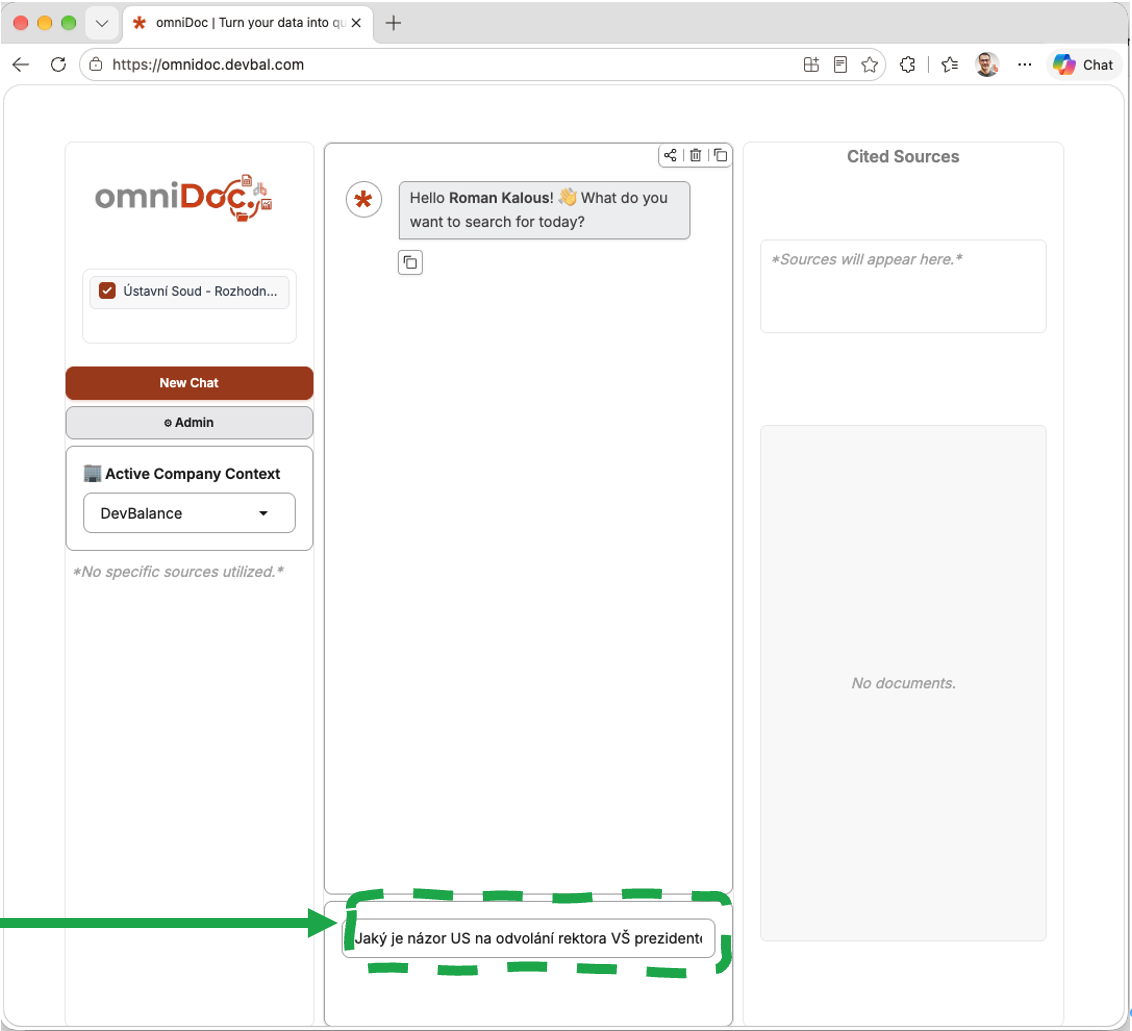
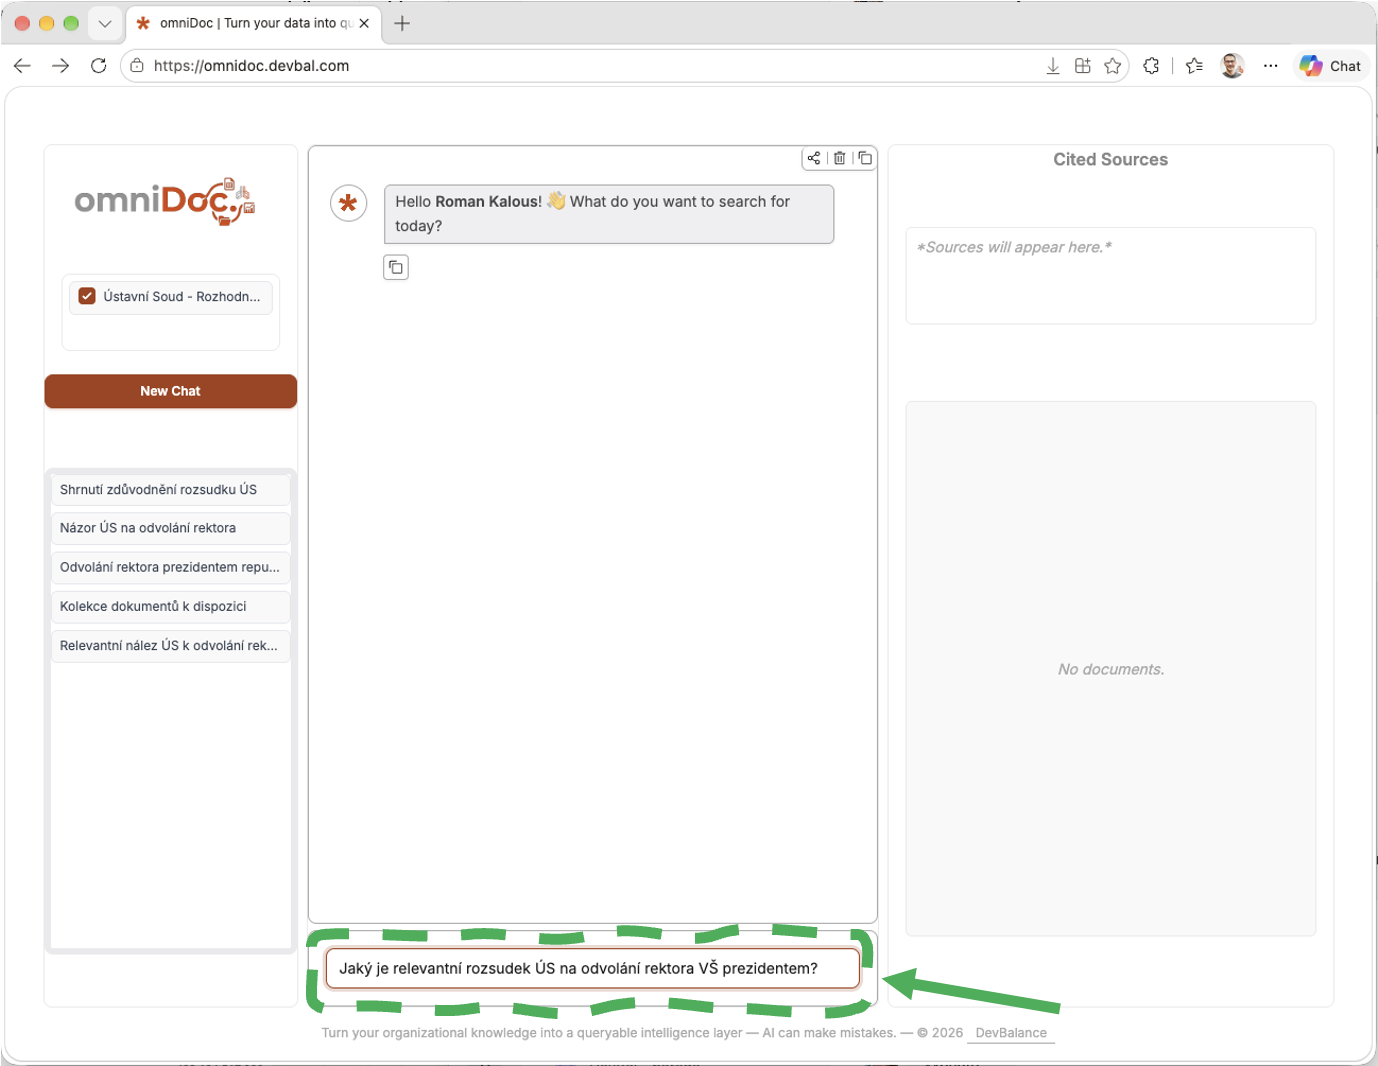
EN version of how-to + CZ update

diff --git a/omniDoc-how-to-FE-EN.html b/omniDoc-how-to-FE-EN.html
@@ -1,0 +1,273 @@
+<!DOCTYPE html>
+<html lang="en">
+
+<head>
+  <meta charset="utf-8">
+  <meta content="width=device-width, initial-scale=1.0" name="viewport">
+  <title>omniDoc. – DevBalance</title>
+  <meta name="description" content="omniDoc. – turn your documents into an intelligent query layer">
+  <meta name="keywords" content="omniDoc, documents, AI, search, semantic search, DevBalance">
+
+  <!-- Favicons -->
+  <link href="assets/img/devbal-favicon.png" rel="icon">
+  <link href="assets/img/apple-touch-icon.png" rel="apple-touch-icon">
+
+  <!-- Fonts -->
+  <link href="https://fonts.googleapis.com/css2?family=Jost:wght@400;500;600&display=swap" rel="stylesheet">
+
+  <!-- Vendor CSS Files -->
+  <link href="assets/vendor/bootstrap/css/bootstrap.min.css" rel="stylesheet">
+  <link href="assets/vendor/bootstrap-icons/bootstrap-icons.css" rel="stylesheet">
+  <link href="assets/vendor/aos/aos.css" rel="stylesheet">
+  <link href="assets/vendor/glightbox/css/glightbox.min.css" rel="stylesheet">
+  <link href="assets/vendor/swiper/swiper-bundle.min.css" rel="stylesheet">
+
+  <!-- Main CSS File -->
+  <link href="assets/css/main.css" rel="stylesheet">
+
+  <style>
+    .hero.hero-compact {
+      min-height: auto;
+      padding: 120px 0 24px 0;
+      align-items: flex-start;
+    }
+
+    @media (max-width: 768px) {
+      .hero.hero-compact {
+        padding: 104px 0 20px 0;
+      }
+    }
+  </style>
+</head>
+
+<body class="index-page">
+
+  <header id="header" class="header d-flex align-items-center fixed-top">
+    <div class="container-fluid container-xl position-relative d-flex align-items-center">
+
+      <a href="index.html" class="logo d-flex align-items-center me-auto">
+        <img src="assets/img/DB_logotyp_pozitiv_RGB.png" alt="">
+      </a>
+
+      <nav id="navmenu" class="navmenu">
+        <ul>
+          <li><a href="index.html">Home</a></li>
+          <li><a href="index.html#services">Services</a></li>
+          <li><a href="index.html#portfolio">Portfolio</a></li>
+          <li><a href="index.html#team">Team</a></li>
+        </ul>
+        <i class="mobile-nav-toggle d-xl-none bi bi-list"></i>
+      </nav>
+
+    </div>
+  </header>
+
+  <main class="main">
+
+    <!-- Page Hero Section -->
+    <section class="hero section hero-compact">
+      <div class="container">
+        <div class="row justify-content-center text-center">
+          <div class="col-lg-8" data-aos="fade-up">
+            <img src="assets/img/portfolio/devbal-omniDoc.-logo.png" class="img-fluid mb-3" alt="omniDoc. logo" style="max-height:80px">
+            <h1>What <em>omniDoc.</em> is (and is not), and how to use it in the basic environment</h1>
+          </div>
+        </div>
+      </div>
+    </section><!-- /Hero Section -->
+
+    <!-- omniDoc Content Section -->
+    <section class="services section pt-0">
+      <div class="container" data-aos="fade-up">
+
+        <div class="row gy-4 mb-5">
+          <div class="col-12">
+            <p><strong><em>omniDoc.</em></strong> is a tool for intelligently searching and interpreting content from a large number of different file types in your library, project folders, or SharePoint (PDFs, Word documents, scans, and emails).</p>
+
+            <p>I can upload confidential materials to the <strong><em>omniDoc.</em></strong> knowledge base – whether sensitive project data (for example, details of private transactions or information subject to confidentiality requirements) or personal data (for example, national identification numbers, dates of birth, or health information). Data is stored and processed on confidential servers.</p>
+
+            <br><br>
+            <h4>Example</h4>
+            <p><strong><em>omniDoc.</em></strong> may, for example, contain dozens of PDFs with materials for the construction and outfitting of a new hall – designs, visualizations, contracts, documentation, delivery deadlines, requirements, supplier materials, and more.</p>
+            
+            <p>With <strong><em>omniDoc.</em></strong>, I can ask <em>“What is the delivery date for the insulation?”</em> or <em>“List all the key dates in a table, including the expected invoice amounts for the corresponding periods (according to the quotations).”</em></p>
+          </div>
+        </div>
+
+        <div class="row gy-4 mb-5">
+          <div class="col-12">
+            <h4><em>omniDoc.</em> is not ChatGPT over the internet</h4>
+            <p><strong><em>omniDoc.</em></strong> does not generally search the web for answers. It primarily works with the documents in its sources, which are prepared by your team or company. Its purpose is not to generate general knowledge, but to help you navigate your own materials.</p>
+
+            <h4><em>omniDoc.</em> is not yet designed for long conversations</h4>
+            <p><strong><em>omniDoc.</em></strong> delivers its best results in the first response. Instead of developing lengthy discussions, it is better to ask a question, search, and use the result.</p>
+
+            <h4><em>omniDoc.</em> does not know everything</h4>
+            <p>A lawyer, designer, or tax adviser is still responsible for the professional conclusion. <strong><em>omniDoc.</em></strong> helps you quickly find relevant information, connections, and evidence in the sources, but it does not make decisions for you.</p>
+
+            <h4><em>omniDoc.</em> is not an image generator</h4>
+            <p><strong><em>omniDoc.</em></strong> understands images (it can “see” them in the sources), but it cannot generate images. Therefore, it cannot (yet) answer a request such as <em>“Draw a map of the supply chain based on the underlying contracts for situation XXX.”</em></p>
+          </div>
+        </div>
+
+        <div class="row gy-4 mb-5">
+          <div class="col-12">
+            <h2>How should I use <em>omniDoc.</em>?</h2>
+          </div>
+          <div class="col-lg-6" data-aos="fade-up" data-aos-delay="100">
+            <h4>Chat interface</h4>
+            <p><strong><em>omniDoc.</em></strong> has a simple chat interface – a basic input for a question or prompt and a response window.</p>
+          </div>
+          <div class="col-lg-6" data-aos="zoom-in" data-aos-delay="150">
+            <img src="./assets/img/portfolio/devbal-omniDoc.-how-to-1-prompt.png" class="img-fluid rounded shadow" alt="omniDoc. question input interface">
+          </div>
+
+          <div class="col-lg-6" data-aos="fade-up" data-aos-delay="200">
+            <h4>Asking a question and working with the result</h4>
+            <p>The main and most common use is to enter your question and work with the result in the main response window.</p>
+            <p>In the left column, you can select collections or knowledge sources if, for example, you want to limit the search to a specific set of documents.</p>
+          </div>
+          <div class="col-lg-6" data-aos="zoom-in" data-aos-delay="250">
+            <img src="./assets/img/portfolio/devbal-omniDoc.-how-to-2-response.png" class="img-fluid rounded shadow" alt="omniDoc. response to a question">
+          </div>
+          
+          <div class="col-lg-6" data-aos="fade-up" data-aos-delay="300">
+            <h4>Documents found</h4>
+            <p>The right column contains links to the documents found. By clicking them, you can view them in a preview, in a full Edge browser window, or download them.</p>
+            <p>It is practical to “open the documents in a split window” in Edge.</p>
+          </div>
+          <div class="col-lg-6" data-aos="zoom-in" data-aos-delay="350">
+            <img src="./assets/img/portfolio/devbal-omniDoc.-how-to-3-document.png" class="img-fluid rounded shadow" alt="omniDoc. documents found">
+          </div>
+        </div>
+
+        <div class="row gy-4 mb-5">
+          <div class="col-12">
+            <h2>Basic rules for your questions</h2>
+            <p><strong><em>omniDoc.</em></strong> first searches the uploaded knowledge for document passages relevant to your question and only then creates an answer from the content it finds. A more precise question therefore usually leads to more accurate search results, better use of the sources, and easier verification of the result.</p>
+
+            <h4>Say exactly what you are looking for</h4>
+            <p>Instead of a general question such as <em>“What is in the contracts?”</em>, use a more specific request: <em>“What are the notice periods, contractual penalties, and termination conditions in the contracts?”</em></p>
+            <p>Specific names, topics, people, companies, reference numbers, or document sections help <strong>omniDoc.</strong> find the right materials.</p>
+
+            <h4>Provide the necessary context</h4>
+            <p>If your question could be interpreted in several ways, add details such as:</p>
+            <ul>
+              <li>the name of the project, contract, or company,</li>
+              <li>the type of document,</li>
+              <li>the period being examined,</li>
+              <li>the specific part of the documentation,</li>
+              <li>the situation for which you need the information.</li>
+            </ul>
+            <p>Example: <em>“Find changes to the completion date made in 2026 in the documentation for the Kitchen Renovation project.”</em></p>
+
+            <h4>Focus on one main task per question</h4>
+            <p>It is helpful to divide a complex request into several steps:</p>
+            <ul>
+              <li><em>“Find the documents containing the contract termination conditions.”</em></li>
+              <li><em>“Compare the conditions in the contracts found.”</em></li>
+              <li><em>“List the main differences in a table.”</em></li>
+            </ul>
+            <p>This gives you clearer answers and lets you check the sources used as you go.</p>
+
+            <h4>Specify what the output should look like</h4>
+            <p>For example, you can request:</p>
+            <ul>
+              <li>a brief summary,</li>
+              <li>a list of key points,</li>
+              <li>a table,</li>
+              <li>a timeline,</li>
+              <li>a comparison of documents,</li>
+              <li>a draft text for an opinion or report.</li>
+            </ul>
+            <p>Example: <em>“Compare the supplier quotations for the Kitchen Renovation project in relation to the changes to the completion date made in 2026. Provide a table with prices, delivery dates, warranties, and the main reservations.”</em></p>
+
+            <h4>Request an answer based only on the available documents</h4>
+            <p>For important tasks, explicitly write: <em>“Answer only according to the available documents. If you cannot find some information, that is not a problem; state this explicitly.”</em></p>
+            <p><strong><em>omniDoc.</em></strong> primarily works with documents in its sources, not with general information from the internet.</p>
+
+            <h4><em>omniDoc.</em> is not yet designed for long conversations</h4>
+            <p><strong><em>omniDoc.</em></strong> delivers its best results in the first response. Instead of developing lengthy discussions, it is better to ask a question, search, and use the result.</p>
+          </div>
+        </div>
+
+      </div>
+    </section><!-- /omniDoc Content Section -->
+
+  </main>
+
+  <footer id="footer" class="footer">
+
+    <div class="container footer-top">
+      <div class="row gy-4">
+        <div class="col-lg-4 col-md-6 footer-about">
+          <a href="index.html" class="d-flex align-items-center">
+            <span class="sitename">DevBalance</span>
+          </a>
+          <div class="footer-contact pt-3">
+            <p>DevBalance s.r.o.</p>
+            <p>Dukelská 45</p>
+            <p>34401 Domažlice</p>
+            <p class="mt-3"><strong>Company ID:</strong> <span>22445960</span></p>
+            <p><strong>VAT ID:</strong> <span>CZ22445960</span></p>
+          </div>
+        </div>
+
+        <div class="col-lg-2 col-md-3 footer-links">
+          <h4>Content</h4>
+          <ul>
+            <li><i class="bi bi-chevron-right"></i> <a href="index.html">Home</a></li>
+            <li><i class="bi bi-chevron-right"></i> <a href="index.html#portfolio">Portfolio</a></li>
+            <li><i class="bi bi-chevron-right"></i> <a href="index.html#footer">Contact</a></li>
+          </ul>
+        </div>
+
+        <div class="col-lg-2 col-md-3 footer-links">
+          <h4>Our Services</h4>
+          <ul>
+            <li><i class="bi bi-chevron-right"></i> <a href="index.html#services">Data Analytics</a></li>
+            <li><i class="bi bi-chevron-right"></i> <a href="index.html#services">Mini Apps</a></li>
+            <li><i class="bi bi-chevron-right"></i> <a href="index.html#services">M365 Guidance</a></li>
+          </ul>
+        </div>
+
+        <div class="col-lg-4 col-md-12">
+          <h4>Follow Us</h4>
+          <p>You can find DevBalance on LinkedIn and GitHub.</p>
+          <div class="social-links d-flex">
+            <a href="https://www.linkedin.com/company/devbalance/"><i class="bi bi-linkedin"></i></a>
+            <a href="https://github.com/DevBalance/"><i class="bi bi-github"></i></a>
+          </div>
+        </div>
+
+      </div>
+    </div>
+
+    <div class="container copyright text-center mt-4">
+      <p>© <span>Copyright</span> <strong class="px-1 sitename">DevBalance s.r.o., FlexStart</strong> <span>All Rights Reserved</span></p>
+      <div class="credits">
+        Designed by <a href="https://bootstrapmade.com/">BootstrapMade</a>
+      </div>
+    </div>
+
+  </footer>
+
+  <!-- Scroll Top -->
+  <a href="#" id="scroll-top" class="scroll-top d-flex align-items-center justify-content-center"><i class="bi bi-arrow-up-short"></i></a>
+
+  <!-- Vendor JS Files -->
+  <script src="assets/vendor/bootstrap/js/bootstrap.bundle.min.js"></script>
+  <script src="assets/vendor/php-email-form/validate.js"></script>
+  <script src="assets/vendor/aos/aos.js"></script>
+  <script src="assets/vendor/glightbox/js/glightbox.min.js"></script>
+  <script src="assets/vendor/purecounter/purecounter_vanilla.js"></script>
+  <script src="assets/vendor/imagesloaded/imagesloaded.pkgd.min.js"></script>
+  <script src="assets/vendor/isotope-layout/isotope.pkgd.min.js"></script>
+  <script src="assets/vendor/swiper/swiper-bundle.min.js"></script>
+
+  <!-- Main JS File -->
+  <script src="assets/js/main.js"></script>
+
+</body>
+
+</html>

diff --git a/omniDoc-how-to-FE-CZ.html b/omniDoc-how-to-FE-CZ.html
@@ -70,7 +70,7 @@
         <div class="row justify-content-center text-center">
           <div class="col-lg-8" data-aos="fade-up">
             <img src="assets/img/portfolio/devbal-omniDoc.-logo.png" class="img-fluid mb-3" alt="omniDoc. logo" style="max-height:80px">
-            <h1>Co je (a co není) <em>omniDoc.</em></h1>
+            <h1>Co je (a co není) <em>omniDoc.</em> a jak ho používat v základním prostředí</h1>
           </div>
         </div>
       </div>
@@ -84,10 +84,13 @@
           <div class="col-12">
             <p><strong><em>omniDoc.</em></strong> je nástroj pro inteligentní vyhledávání a interpretaci obsahu z velkého množství různých typů souborů ve vaší knihovně, projektových složkách, na SharePointu (PDF, Word, skeny, e-maily).</p>
 
-            <h4>Příklad použití</h4>
-            <p>Mám v knihovně/složce/adresáři k úpravám firemní kuchyně desítky PDF s podklady – návrhy, vizualizace, smlouvy, dodací lhůty, požadavky, podklady dodavatelů atd. S <strong><em>omniDoc.</em></strong> můžu položit otázku <em>„Jaký je termín pro dodávku lednice a kávovaru?“</em> anebo <em>„sepiš mi ve formě tabulky všechny hlavní termíny včetně očekávané výše faktur za odpovídající období (podle nabídek)“</em>.</p>
+            <p>Do znalostí <strong><em>omniDoc.</em></strong> můžu nahrávat důvěrné materiály – ať už v rámci citlivých dat zakázek (např. detaily soukromých transakcí nebo informace podléhající požadavkům na utajení), nebo osobních dat (např. rodná čísla, data narození, zdravotní informace) – uložení a zpracování dat probíhá na důvěrných serverech.</p>
 
-            <p>Do knihovny dokumentů <strong><em>omniDoc.</em></strong> můžu nahrávat důvěrné materiály – ať už v rámci citlivých dat zakázek (např. detaily soukromých transakcí nebo informace podléhající požadavkům na utajení), nebo osobních dat (např. rodná čísla, data narození, zdravotní informace) – uložení a zpracování dat probíhá na důvěrných serverech.</p>
+            <br><br>
+            <h4>Příklad použití</h4>
+            <p><strong><em>omniDoc.</em></strong> má například ve znalostech desítky PDF s podklady k projektu stavby a vybavení nové haly – návrhy, vizualizace, smlouvy, dokumentaci, dodací lhůty, požadavky, podklady dodavatelů atd.</p>
+            
+            <p>S <strong><em>omniDoc.</em></strong> můžu položit otázku <em>„Jaký je termín pro dodávku zateplení?“</em> anebo <em>„Sepiš mi ve formě tabulky všechny hlavní termíny včetně očekávané výše faktur za odpovídající období (podle nabídek)“</em>.</p>
           </div>
         </div>
 
@@ -121,7 +124,8 @@
 
           <div class="col-lg-6" data-aos="fade-up" data-aos-delay="200">
             <h4>Dotaz a práce s výstupem</h4>
-            <p>Hlavní a klasické použití je vložit svůj dotaz a pracovat s výstupem (v hlavním odpovědním okně).</p>
+            <p>Hlavní a nejčastější použití je vložit svůj dotaz a pracovat s výstupem (v hlavním odpovědním okně).</p>
+            <p>V levém sloupci můžete zvolit kolekce/zdroje znalostí, pokud například chcete omezit vyhledávání na konkrétní sadu dokumentů.</p>
           </div>
           <div class="col-lg-6" data-aos="zoom-in" data-aos-delay="250">
             <img src="./assets/img/portfolio/devbal-omniDoc.-how-to-2-response.png" class="img-fluid rounded shadow" alt="omniDoc. odpověď na dotaz">
@@ -129,7 +133,8 @@
           
           <div class="col-lg-6" data-aos="fade-up" data-aos-delay="300">
             <h4>Nalezené dokumenty</h4>
-            <p>A samozřejmě nahlížet a využívat nalezené dokumenty (okno „Cited Sources“, ideální je „otevřít v rozděleném okně“ v Edge).</p>
+            <p>V pravém sloupci jsou prokliky na nalezené dokumenty. Kliknutím je můžete zobrazit v náhledu, v plném okně prohlížeče Edge, anebo stáhnout.</p>
+            <p>Praktické je dokumenty „otevřít v rozděleném okně“ v Edge).</p>
           </div>
           <div class="col-lg-6" data-aos="zoom-in" data-aos-delay="350">
             <img src="./assets/img/portfolio/devbal-omniDoc.-how-to-3-document.png" class="img-fluid rounded shadow" alt="omniDoc. nalezené dokumenty">
